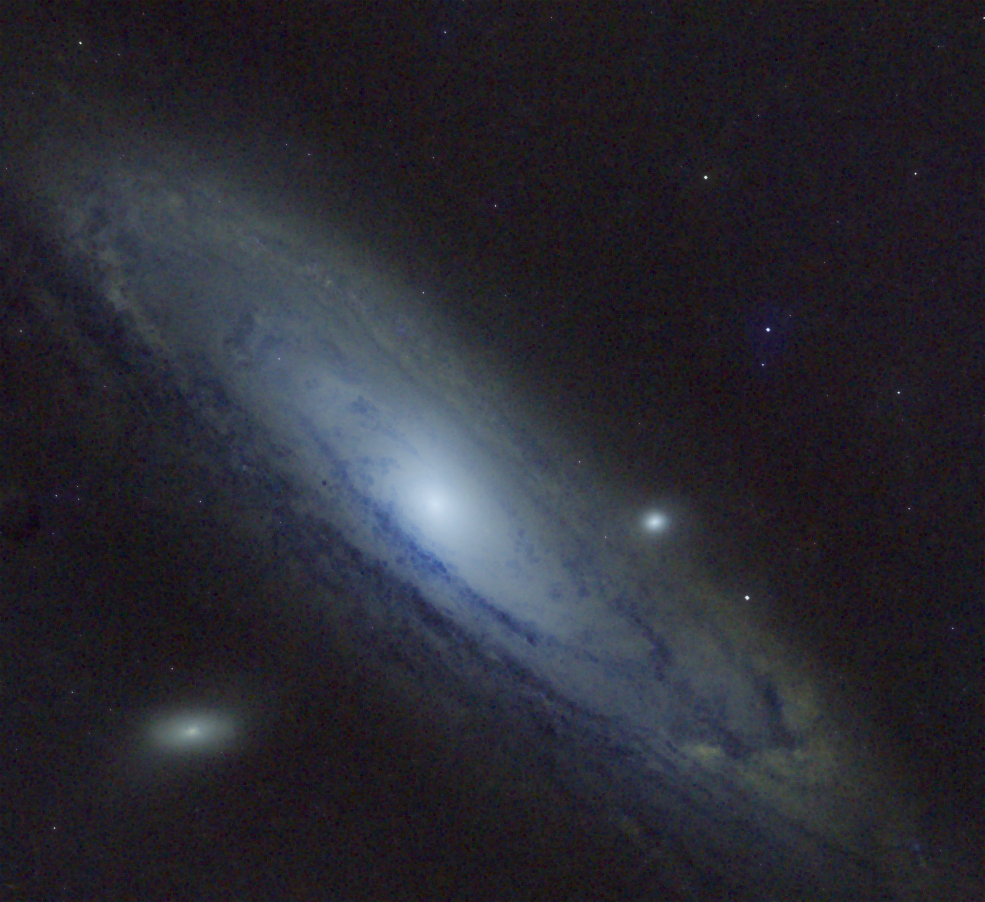
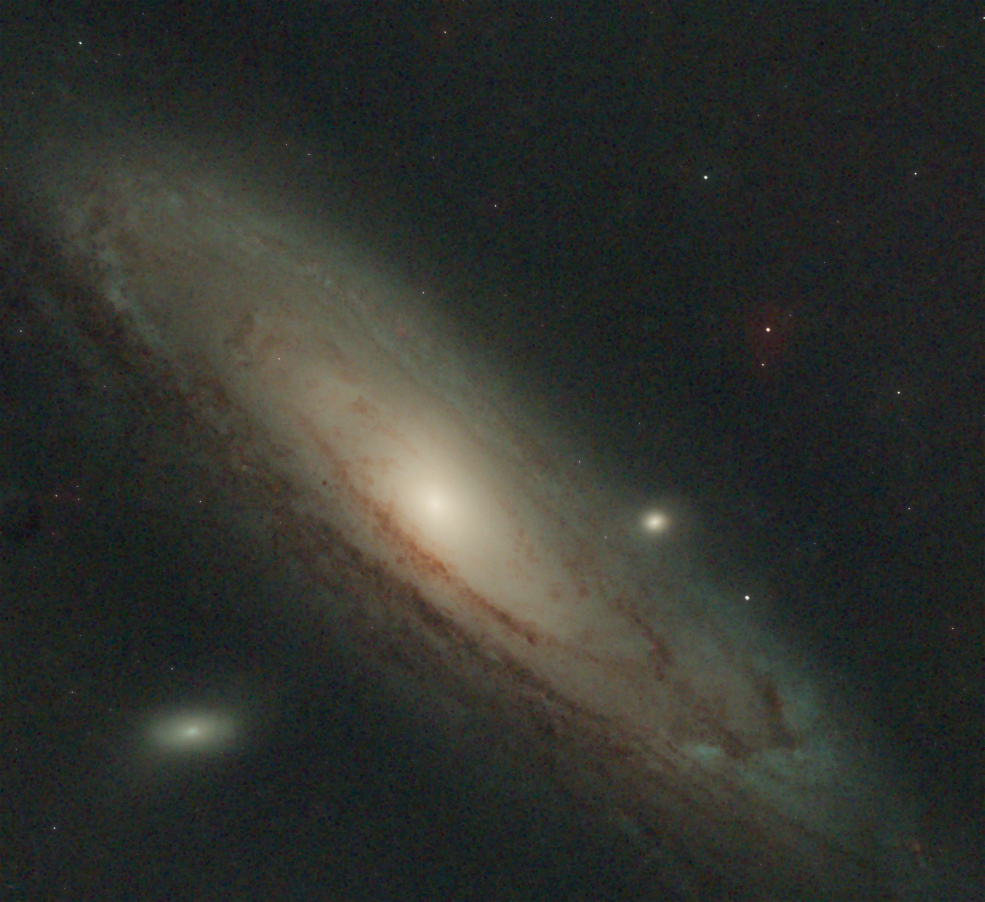
Création du script de l'interface graphique

diff --git a/erosionGraphique.py b/erosionGraphique.py
@@ -1,0 +1,120 @@
+import tkinter as tk
+from tkinter import filedialog, messagebox
+from astropy.io import fits
+import numpy as np
+import cv2
+from PIL import Image, ImageTk
+import os
+
+class FitsGUI:
+    def __init__(self, root):
+        self.root = root
+        self.root.title("Réduction d'étoiles - Images FITS")
+
+        self.img_original = None
+        self.img_cv = None
+
+        # Bouton ouvrir
+        tk.Button(root, text="Ouvrir la photo de l'image astronomique", command=self.load_fits).pack(pady=5)
+
+        # Curseur
+        tk.Label(root, text="Supprimer des étoiles").pack()
+        self.star_slider = tk.Scale(
+            root,
+            from_=0,
+            to=50,
+            orient=tk.HORIZONTAL,
+            length=400,
+            label="Plus d'étoiles  ←→  Moins d'étoiles",
+            command=self.process_image
+        )
+        self.star_slider.set(0)
+        self.star_slider.pack(pady=5)
+
+        # Zone d'affichage
+        self.label = tk.Label(root)
+        self.label.pack(padx=10, pady=10)
+
+    def load_fits(self):
+        path = filedialog.askopenfilename(filetypes=[("FITS files", "*.fits")])
+        if not path:
+            return
+
+        hdulist = fits.open(path)
+        img_data = hdulist[0].data
+        hdulist.close()
+
+        # Image couleur
+        if img_data.ndim == 3 and img_data.shape[0] == 3:
+            img_data = np.transpose(img_data, (1, 2, 0))
+            img_norm = (img_data - img_data.min()) / (img_data.max() - img_data.min())
+            self.img_cv = cv2.cvtColor((img_norm * 255).astype(np.uint8), cv2.COLOR_RGB2BGR)
+        else:
+            img_norm = (img_data - img_data.min()) / (img_data.max() - img_data.min())
+            self.img_cv = (img_norm * 255).astype(np.uint8)
+
+        # Sauvegarde de l'image originale
+        self.img_original = self.img_cv.copy()
+
+        self.star_slider.set(0)
+        self.show_image(self.img_original)
+
+    def process_image(self, value=None):
+        if self.img_original is None:
+            return
+
+        # Intensité du curseur
+        strength = int(self.star_slider.get() / 15)
+
+        if strength == 0:
+            self.show_image(self.img_original)
+            return
+
+        # Passage en niveaux de gris
+        img_gray = cv2.cvtColor(self.img_original, cv2.COLOR_BGR2GRAY) if self.img_original.ndim == 3 else self.img_original
+        img_blur = cv2.GaussianBlur(img_gray, (5, 5), 0)
+
+        # Masque étoiles
+        star_mask = cv2.adaptiveThreshold(
+            img_blur, 255,
+            cv2.ADAPTIVE_THRESH_GAUSSIAN_C,
+            cv2.THRESH_BINARY, 25, -2
+        )
+
+        # Érosion contrôlée
+        kernel = np.ones((3, 3), np.uint8)
+        img_eroded = cv2.erode(self.img_original, kernel, iterations=strength)
+
+        # Lissage du masque
+        mask_smooth = cv2.GaussianBlur(star_mask, (5, 5), 0)
+        mask_float = mask_smooth.astype(np.float32) / 255.0
+
+        if self.img_original.ndim == 3:
+            mask_float = mask_float[:, :, np.newaxis]
+
+        # Fusion finale
+        final_img = (mask_float * img_eroded + (1 - mask_float) * self.img_original).astype(np.uint8)
+
+        os.makedirs("results", exist_ok=True)
+        cv2.imwrite("results/final.png", final_img)
+
+        self.show_image(final_img)
+
+    def show_image(self, img_cv):
+        if img_cv.ndim == 2:
+            img_rgb = cv2.cvtColor(img_cv, cv2.COLOR_GRAY2RGB)
+        else:
+            img_rgb = cv2.cvtColor(img_cv, cv2.COLOR_BGR2RGB)
+
+        img_pil = Image.fromarray(img_rgb)
+        img_pil.thumbnail((600, 600))
+        img_tk = ImageTk.PhotoImage(img_pil)
+
+        self.label.configure(image=img_tk)
+        self.label.image = img_tk
+
+
+if __name__ == '__main__':
+    root = tk.Tk()
+    app = FitsGUI(root)
+    root.mainloop()
